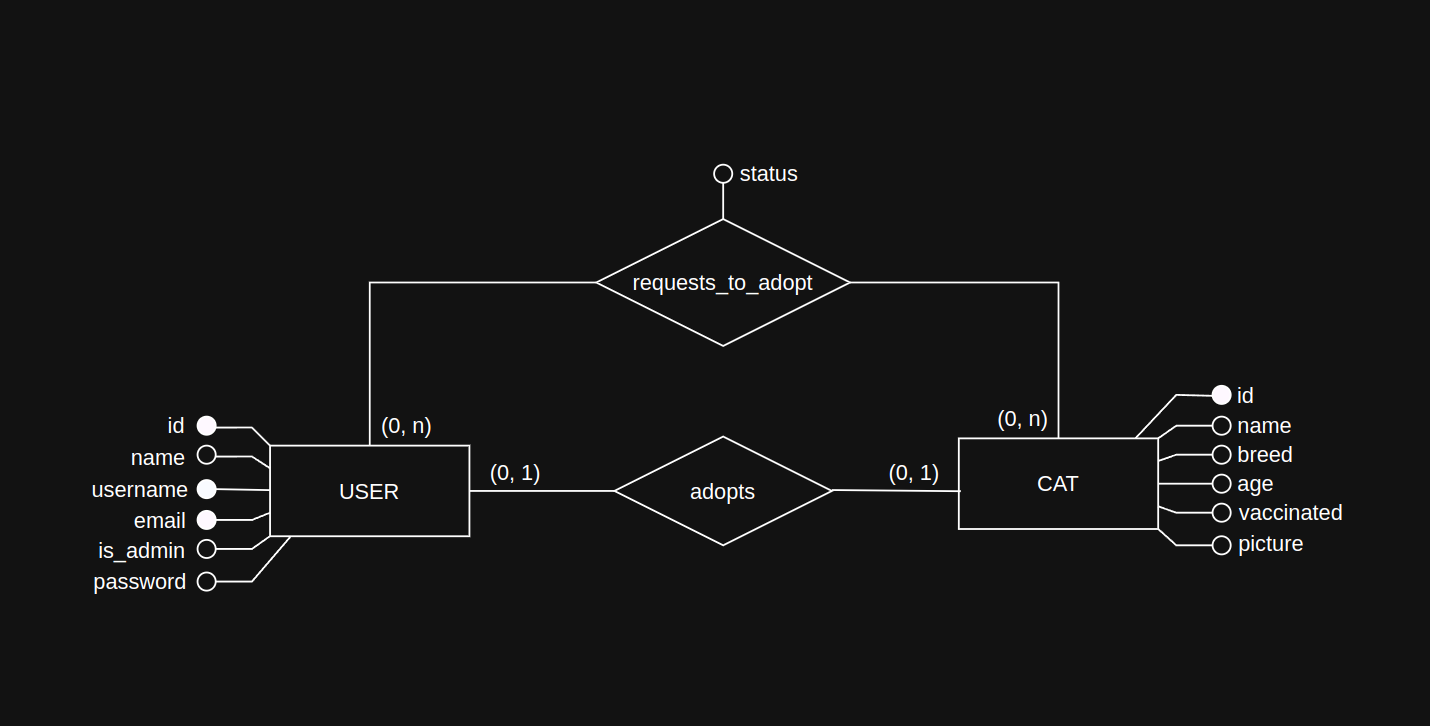
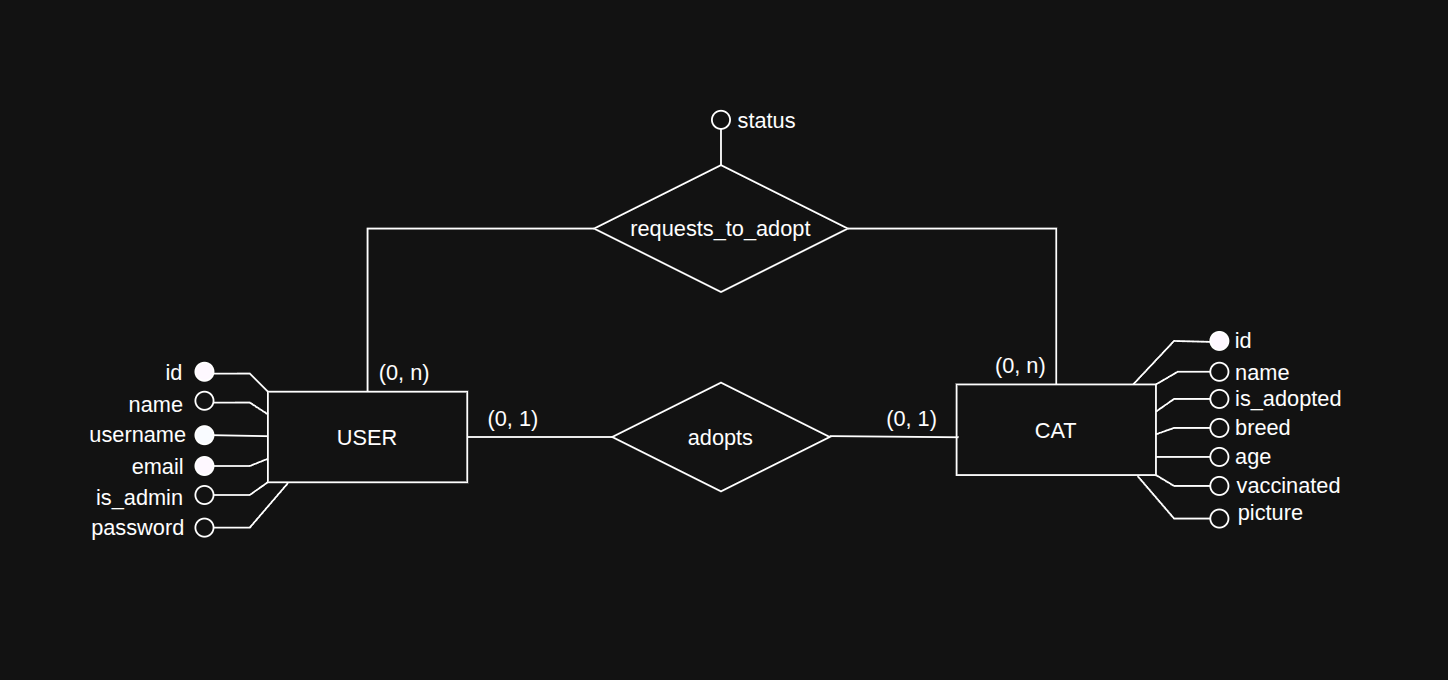
change foreign key "user_id" to "adopter_id" for cats

Changed region(s): [[0.0615, 0.1544, 0.9538, 0.8338], [0.5231, 0.4324, 0.5538, 0.4632], [0.4923, 0.4632, 0.5231, 0.4941]]

diff --git a/database/migrations/2025_05_12_212630_create_cats_table.php b/database/migrations/2025_05_12_212630_create_cats_table.php
@@ -14,7 +14,7 @@ return new class extends Migration
     {
         Schema::create('cats', function (Blueprint $table) {
             $table->id();
-            $table->foreignIdFor(User::class)->nullable();
+            $table->foreignId('adopter_id')->nullable()->constrained('users');
             $table->boolean('is_adopted')->default(false);
             $table->string('name');
             $table->string('breed');

diff --git a/app/Models/Cat.php b/app/Models/Cat.php
@@ -16,6 +16,6 @@ class Cat extends Model
         'vaccinated',
         'photo',
         'is_adopted',
-        'user_id',
+        'adopter_id',
     ];
 }

diff --git a/README.md b/README.md
@@ -1,66 +1,43 @@
-<p align="center"><a href="https://laravel.com" target="_blank"><img src="https://raw.githubusercontent.com/laravel/art/master/logo-lockup/5%20SVG/2%20CMYK/1%20Full%20Color/laravel-logolockup-cmyk-red.svg" width="400" alt="Laravel Logo"></a></p>
+# Descripción
 
-<p align="center">
-<a href="https://github.com/laravel/framework/actions"><img src="https://github.com/laravel/framework/workflows/tests/badge.svg" alt="Build Status"></a>
-<a href="https://packagist.org/packages/laravel/framework"><img src="https://img.shields.io/packagist/dt/laravel/framework" alt="Total Downloads"></a>
-<a href="https://packagist.org/packages/laravel/framework"><img src="https://img.shields.io/packagist/v/laravel/framework" alt="Latest Stable Version"></a>
-<a href="https://packagist.org/packages/laravel/framework"><img src="https://img.shields.io/packagist/l/laravel/framework" alt="License"></a>
-</p>
+## Sistema de Adopción de Gatos con Laravel
 
-## About Laravel
+Desarrolla una aplicación web completa para gestionar las adopciones en una protectora de gatos. <br>
+El objetivo es aplicar todo lo aprendido en el curso Aprende Laravel desde cero para construir <br>
+una aplicación realista, funcional y motivadora.
 
-Laravel is a web application framework with expressive, elegant syntax. We believe development must be an enjoyable and creative experience to be truly fulfilling. Laravel takes the pain out of development by easing common tasks used in many web projects, such as:
+## ¿Qué vas a construir?
 
-- [Simple, fast routing engine](https://laravel.com/docs/routing).
-- [Powerful dependency injection container](https://laravel.com/docs/container).
-- Multiple back-ends for [session](https://laravel.com/docs/session) and [cache](https://laravel.com/docs/cache) storage.
-- Expressive, intuitive [database ORM](https://laravel.com/docs/eloquent).
-- Database agnostic [schema migrations](https://laravel.com/docs/migrations).
-- [Robust background job processing](https://laravel.com/docs/queues).
-- [Real-time event broadcasting](https://laravel.com/docs/broadcasting).
+Una aplicación con dos grandes áreas: la parte  de Backend y la parte de Frontend.
 
-Laravel is accessible, powerful, and provides tools required for large, robust applications.
+### 🔧 Área de gestión (backend)
 
-## Learning Laravel
+- Crear, editar, eliminar y listar gatos (CRUD completo).
+- Guardar información como: raza, edad, estado de vacunación y fotografía.
+- Aceptar o rechazar solicitudes de adopción.
+- Marcar a un gato como adoptado (sin eliminarlo de la base de datos).
 
-Laravel has the most extensive and thorough [documentation](https://laravel.com/docs) and video tutorial library of all modern web application frameworks, making it a breeze to get started with the framework.
+### 👤 Área de usuario (frontend)
 
-You may also try the [Laravel Bootcamp](https://bootcamp.laravel.com), where you will be guided through building a modern Laravel application from scratch.
+- Cualquier persona podrá registrarse e iniciar sesión.
+- Una vez autenticado, podrá adoptar un solo gato.
+- El sistema ocultará del frontal los gatos ya adoptados.
 
-If you don't feel like reading, [Laracasts](https://laracasts.com) can help. Laracasts contains thousands of video tutorials on a range of topics including Laravel, modern PHP, unit testing, and JavaScript. Boost your skills by digging into our comprehensive video library.
+### Los requisitos indispensables para aprobar el proyecto son
 
-## Laravel Sponsors
+- Migraciones y modelos bien definidos.
+- Gestión completa de usuarios.
+- CRUD de gatos funcional en la parte de gestión.
+- Frontend con vista de gatos no adoptados.
+- Adopción funcional con control por usuario.
+- Sistema de aceptación y registro de adopciones.
+- Datos iniciales cargados con seeders.
+- Proyecto limpio y organizado.
 
-We would like to extend our thanks to the following sponsors for funding Laravel development. If you are interested in becoming a sponsor, please visit the [Laravel Partners program](https://partners.laravel.com).
 
-### Premium Partners
+#### Si quieres destacar y aumentar el nivel de tu proyecto (no evaluable)
 
-- **[Vehikl](https://vehikl.com/)**
-- **[Tighten Co.](https://tighten.co)**
-- **[WebReinvent](https://webreinvent.com/)**
-- **[Kirschbaum Development Group](https://kirschbaumdevelopment.com)**
-- **[64 Robots](https://64robots.com)**
-- **[Curotec](https://www.curotec.com/services/technologies/laravel/)**
-- **[Cyber-Duck](https://cyber-duck.co.uk)**
-- **[DevSquad](https://devsquad.com/hire-laravel-developers)**
-- **[Jump24](https://jump24.co.uk)**
-- **[Redberry](https://redberry.international/laravel/)**
-- **[Active Logic](https://activelogic.com)**
-- **[byte5](https://byte5.de)**
-- **[OP.GG](https://op.gg)**
-
-## Contributing
-
-Thank you for considering contributing to the Laravel framework! The contribution guide can be found in the [Laravel documentation](https://laravel.com/docs/contributions).
-
-## Code of Conduct
-
-In order to ensure that the Laravel community is welcoming to all, please review and abide by the [Code of Conduct](https://laravel.com/docs/contributions#code-of-conduct).
-
-## Security Vulnerabilities
-
-If you discover a security vulnerability within Laravel, please send an e-mail to Taylor Otwell via [taylor@laravel.com](mailto:taylor@laravel.com). All security vulnerabilities will be promptly addressed.
-
-## License
-
-The Laravel framework is open-sourced software licensed under the [MIT license](https://opensource.org/licenses/MIT).
+- Usa componentes visuales bonitos (Bootstrap, Tailwind…).
+- Implementa subida real de fotos.
+- Añade validaciones y mensajes amigables.
+- Crea un panel de perfil para usuarios.
